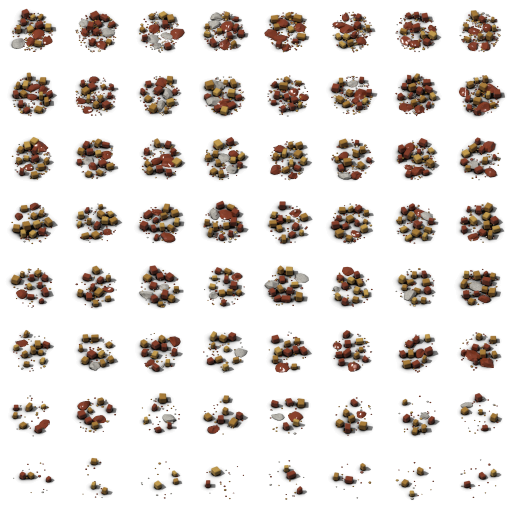
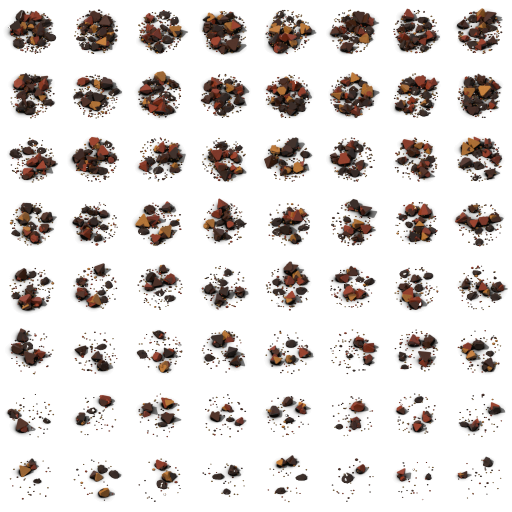
DESIGN-BLENDE : blende refaite (S8, druses de tétraèdres tronqués)
Retour du DC du 30/10 : « je n'aime pas du tout la forme de ces minerais : Blende, ... Il faut les refaire ».
S2 (petits cubes et galets lisses, doublon de forme de la galène) remplacée par S8 : druses de tétraèdres
tronqués (forme cristalline de la sphalérite), une famille de teinte brun-rouge résineux, rubis, ambre rouge.

- gisement.py : primitive tetra() (tétraèdre tronqué, enfoui, faces orientées) et druses `tetras`, aussi dans
  l'icône ; seulement si une direction les déclare (les autres minerais sont inchangés).
- directions.py : S3 à S8 ajoutées en fin de fichier (essais notés), aucune ligne existante modifiée.
- world.lua : commentaire de la feuille, teinte de visualisation de minage brun-rouge.
- graphics/ressources/blende : feuille S8 à 128 échantillons, icônes refaites seules.

Preuves : check_gisement --mutants 7 OK 0 ECHEC, 10/10 refusés ; harness code 0 ; zinc 36, run 114,
x3 6002, monde 356 OK ; r4-visuels avec images 3 OK (place 1). Planches et page :
fo-logs/2026-10-30_RETOUR-MATIN/MINERAIS/blende/index.html. Choix provisoire, sans verdict du DC.

diff --git a/tools/render/pieces/ressources/directions.py b/tools/render/pieces/ressources/directions.py
@@ -581,3 +581,119 @@ GRAINE = {"A": 5101, "B": 5202, "C": 5303, "A2": 5101, "A3": 5101, "A4": 5101, "
 COLONNES = 8
 STADES = 8
 PAS = 3          # écart entre deux cellules, en tuiles (aucune ombre d'une cellule ne déborde sur sa voisine)
+
+# ------------------------------------------------------------------------------------------------
+# BLENDE, REFAITE (lot DESIGN-BLENDE, 30/10, retour du DC du matin : « je n'aime pas du tout la forme de ces minerais :
+# Blende, ... Il faut les refaire »). S2 (livrée) : petits CUBES biseautés (la recette de la galène G1, réutilisée) et
+# galets rouges lisses : se lisait « dés et bonbons », doublon de forme de la galène, confettis au zoom 1, sans gros
+# morceau dominant. Trois formes nouvelles, même teinte (miel, ambre, rubis) plus le noir résineux de la blende réelle
+# (« black jack ») qui donne la profondeur que S2 n'avait pas :
+#   S3 : MORCEAUX CLIVÉS (la blende massive se casse en faces planes brillantes, clivage parfait) : des blocs de la
+#        taille des cailloux vanilla, à grandes facettes nettes, sur un tapis de poussière miel ;
+#   S4 : DRUSES DE TÉTRAÈDRES tronqués (la forme cristalline de la sphalérite), pointes dressées, sur une matrice sombre ;
+#   S5 : MIXTE : morceaux clivés sombres (noir résineux, rubis) d'où sortent des tétraèdres miel et ambre.
+# ------------------------------------------------------------------------------------------------
+MAT.update({
+    # blende noire (« black jack », riche en fer) : brun-noir résineux, reflets francs
+    "blende_noire": dict(color=(0.040, 0.018, 0.009), rough=0.14, met=0.08, grain=0.15, gscale=45.0, dirt=0.3),
+    # poussière de blende : tapis de grains fins miel-brun (plus clair que la terre pour se lire)
+    "poussiere_miel": dict(color=(0.30, 0.17, 0.05), rough=0.9, met=0.0, grain=0.3, gscale=30.0, dirt=0.2),
+})
+_S_BASE = dict(
+    touffes=(0, 0, 0, 0, 0, 0, 0, 0), lames=(0, 0),
+    lame_long=(0.0, 0.0), lame_larg=(0.0, 0.0), lame_ep=(0.0, 0.0), lame_incl=(0, 0), lame_mats=("blende_miel",),
+    blocs=(0, 0, 0, 0, 0, 0, 0, 0), bloc_taille=(0.1, 0.1), bloc_haut=(0.1, 0.1), bloc_mats=("blende_miel",),
+    grains=(16, 14, 12, 10, 8, 6, 4, 3), grain_mats=("blende_miel", "blende_noire", "blende_rubis", "blende_ambre"),
+    fins=(110, 96, 82, 70, 58, 46, 30, 16),
+    fin_mats=("poussiere_miel", "poussiere_miel", "blende_noire", "blende_rubis", "blende_miel"),
+    rayon=0.60,
+    effet="eclats",
+)
+DIRECTIONS["S3"] = dict(_S_BASE, nom="morceaux clivés de blende miel, rubis et noire",
+                        roches=(9, 8, 7, 6, 5, 4, 3, 2), roche_taille=(0.24, 0.34),
+                        roche_mats=("blende_noire", "blende_miel", "blende_rubis", "blende_miel", "blende_ambre",
+                                    "blende_noire"))
+DIRECTIONS["S4"] = dict(_S_BASE, nom="druses de tétraèdres de blende sur matrice sombre",
+                        roches=(3, 3, 2, 2, 2, 1, 1, 1), roche_taille=(0.14, 0.22),
+                        roche_mats=("blende_noire", "blende_noire", "blende_rubis"),
+                        tetras=(7, 6, 5, 4, 4, 3, 2, 1), tetra_n=(2, 4), tetra_taille=(0.20, 0.30),
+                        tetra_mats=("blende_miel", "blende_ambre", "blende_rubis", "blende_noire", "blende_miel"))
+DIRECTIONS["S5"] = dict(_S_BASE, nom="morceaux clivés noirs et rubis hérissés de tétraèdres miel",
+                        roches=(6, 5, 5, 4, 3, 3, 2, 1), roche_taille=(0.24, 0.32),
+                        roche_mats=("blende_noire", "blende_rubis", "blende_noire", "blende_miel"),
+                        tetras=(4, 4, 3, 3, 2, 2, 1, 1), tetra_n=(1, 3), tetra_taille=(0.18, 0.26),
+                        tetra_mats=("blende_miel", "blende_ambre", "blende_miel", "blende_rubis"))
+for _k in ("S3", "S4", "S5"):
+    CALIB[_k] = {"SKY_GLOSSY_FACTOR": 2.0}
+    ROCHE_COUPES[_k] = 9            # clivage : beaucoup de plans de cassure, faces planes
+    ROCHE_LISSE[_k] = 10            # arêtes vives (lissé 10° seulement)
+    ROCHE_APLAT[_k] = 0.62
+    ROCHE_CASSURE[_k] = (0.30, 0.62)
+    EFFET[_k] = dict(EFFET["S2"])
+    ECHELLE[_k] = 1.0
+    GRAINE[_k] = 6818
+
+# Ronde 2 (DESIGN-BLENDE, 30/10, 9 h 25 ; planche variantes/planche-variantes.png à 16 échantillons) : S3 sort en FLOCONS
+# couchés (les coupes profondes aplatissent les morceaux) : écartée. S4 (tétraèdres) a la meilleure silhouette, mais son
+# miel sort KAKI et mat (même teinte que la terre dirt-4 : invisible sur le sol de la garantie), ses galets rubis de
+# matrice restent des pastilles plates, et sa couverture est à 0,24 au stade 1 (vanilla 0,316). S6 : druses de S4 en noir
+# résineux majoritaire (contraste sur la terre et l'herbe), ambre et rubis VIFS et brillants (l'éclat résineux), matrice
+# noire TRAPUE (aplat 0,85, cassures moins profondes), tapis de poussière dense comme la vanilla ; comptes recalés au
+# rapport vanilla / mesuré de S4 (× 1,3 ; stades 4 et 5 corrigés à part). S7 : la même forme, ambre majoritaire.
+MAT.update({
+    "blende_ambre_vif": dict(color=(0.80, 0.42, 0.05), rough=0.12, met=0.05, grain=0.15, gscale=45.0, dirt=0.3),
+    "blende_rubis_vif": dict(color=(0.42, 0.040, 0.015), rough=0.12, met=0.05, grain=0.15, gscale=45.0, dirt=0.3),
+})
+DIRECTIONS["S6"] = dict(DIRECTIONS["S4"], nom="druses de tétraèdres de blende noire résineuse, ambre et rubis",
+                        roches=(3, 3, 2, 2, 2, 1, 1, 1), roche_taille=(0.13, 0.20), roche_mats=("blende_noire",),
+                        tetras=(7, 6, 5, 4.5, 3.4, 3, 2, 1), tetra_n=(2, 4), tetra_taille=(0.20, 0.30),
+                        tetra_mats=("blende_noire", "blende_noire", "blende_rubis_vif", "blende_ambre_vif",
+                                    "blende_noire", "blende_ambre_vif", "blende_rubis_vif"),
+                        grain_mats=("blende_ambre_vif", "blende_noire", "blende_rubis_vif", "blende_noire"),
+                        fins=(180, 155, 130, 110, 90, 70, 45, 25),
+                        fin_mats=("poussiere_miel", "blende_noire", "poussiere_miel", "blende_rubis_vif", "blende_noire"))
+DIRECTIONS["S7"] = dict(DIRECTIONS["S6"], nom="druses de tétraèdres de blende ambre, rubis et noire",
+                        tetra_mats=("blende_ambre_vif", "blende_ambre_vif", "blende_rubis_vif", "blende_noire",
+                                    "blende_ambre_vif"))
+for _k in ("S6", "S7"):
+    CALIB[_k] = {"SKY_GLOSSY_FACTOR": 3.0}
+    ROCHE_COUPES[_k] = 6
+    ROCHE_LISSE[_k] = 25
+    ROCHE_APLAT[_k] = 0.85
+    ROCHE_CASSURE[_k] = (0.50, 0.80)
+    EFFET[_k] = dict(EFFET["S2"])
+    ECHELLE[_k] = 1.3
+    GRAINE[_k] = 6818
+ICONE["S6"] = dict(lames=(0, 0), roches=(1, 2), roche_taille=(0.16, 0.22), roche_coupes=6, roche_cassure=(0.5, 0.8),
+                   roche_aplat=0.85, roche_mats=("blende_noire",),
+                   tetras=4, tetra_taille=(0.40, 0.50), tetra_mats=("blende_ambre_vif", "blende_noire", "blende_rubis_vif",
+                                                                   "blende_ambre_vif"))
+ICONE["S7"] = dict(ICONE["S6"])
+
+# Ronde 3 (9 h 35, planche variantes/planche-S6-S7.png) : S6 et S7 ont la bonne silhouette mais se lisent en CONFETTIS
+# tricolores (pièces noires, rouges et jaune moutarde séparées : un minerai vanilla est UNE matière qui varie en valeur),
+# le jaune sort moutarde mat, et les faces plates sans reflet franc font « low poly » à côté du cuivre. S8 : une seule
+# famille de teinte, brun-rouge résineux sombre → rubis → ambre rouge (le « miel à rubis » d'X3 sans la moutarde), matière
+# plus lisse et reflets du ciel plus forts (éclat résineux net sur les facettes), tailles et troncatures plus variées.
+MAT.update({
+    "blende_brune": dict(color=(0.085, 0.026, 0.010), rough=0.09, met=0.05, grain=0.22, gscale=45.0, dirt=0.3),
+    "blende_rubis_r": dict(color=(0.34, 0.050, 0.016), rough=0.08, met=0.05, grain=0.22, gscale=45.0, dirt=0.3),
+    "blende_ambre_r": dict(color=(0.58, 0.22, 0.035), rough=0.08, met=0.05, grain=0.22, gscale=45.0, dirt=0.3),
+})
+DIRECTIONS["S8"] = dict(DIRECTIONS["S6"], nom="druses de tétraèdres de blende résineuse brun-rouge, rubis et ambre",
+                        roche_mats=("blende_noire",),
+                        tetras=(7.8, 6, 5, 4.5, 3.1, 2.85, 1.8, 1), tetra_taille=(0.17, 0.32), tetra_tronc=(0.10, 0.34),
+                        tetra_mats=("blende_brune", "blende_brune", "blende_rubis_r", "blende_noire", "blende_rubis_r",
+                                    "blende_brune", "blende_ambre_r"),
+                        grain_mats=("blende_rubis_r", "blende_noire", "blende_ambre_r", "blende_brune"),
+                        fin_mats=("poussiere_miel", "blende_brune", "poussiere_miel", "blende_rubis_r", "blende_noire"))
+CALIB["S8"] = {"SKY_GLOSSY_FACTOR": 5.0}
+ROCHE_COUPES["S8"], ROCHE_LISSE["S8"] = ROCHE_COUPES["S6"], ROCHE_LISSE["S6"]
+ROCHE_APLAT["S8"], ROCHE_CASSURE["S8"] = ROCHE_APLAT["S6"], ROCHE_CASSURE["S6"]
+EFFET["S8"] = dict(EFFET["S2"])
+ECHELLE["S8"] = 1.3
+GRAINE["S8"] = 6818
+ICONE["S8"] = dict(ICONE["S6"], tetra_mats=("blende_rubis_r", "blende_brune", "blende_ambre_r", "blende_rubis_r"))
+# Icône de S8 (après la production à 128 échantillons, icones.png) : un seul grand tétraèdre au centre se lisait « toit de
+# tente ». Comme les icônes vanilla (3 ou 4 morceaux qui remplissent le cadre) : 5 tétraèdres moyens et un éclat noir.
+ICONE["S8"] = dict(ICONE["S8"], roches=(1, 1), tetras=5, tetra_taille=(0.27, 0.34), tetra_tronc=(0.12, 0.28))

diff --git a/tools/render/pieces/ressources/gisement.py b/tools/render/pieces/ressources/gisement.py
@@ -130,6 +130,52 @@ def bloc(rng, taille, haut):
     return verts, faces
 
 
+def tetra(rng, taille, tronc=(0.18, 0.30), enfoui=(0.15, 0.40)):
+    """Tétraèdre TRONQUÉ (lot DESIGN-BLENDE, 30/10) : la forme cristalline de la sphalérite (blende), 4 grandes faces
+    triangulaires coupées aux pointes (4 hexagones + 4 petits triangles). Orientation au hasard, enfoui dans le sol
+    d'une part `enfoui` de sa hauteur (fond aplati à z = 0) : une pointe ou une arête dressée, jamais un dé posé."""
+    T = ((1.0, 1.0, 1.0), (1.0, -1.0, -1.0), (-1.0, 1.0, -1.0), (-1.0, -1.0, 1.0))
+    t = rng.uniform(*tronc)
+    verts, idx = [], {}
+    for i in range(4):
+        for j in range(4):
+            if i != j:
+                idx[(i, j)] = len(verts)
+                verts.append(tuple(T[i][k] + t * (T[j][k] - T[i][k]) for k in range(3)))
+    faces = []
+    for i in range(4):                       # petits triangles des pointes coupées
+        autres = [j for j in range(4) if j != i]
+        faces.append([idx[(i, j)] for j in autres])
+    for f in range(4):                       # grandes faces (hexagones) : face opposée au sommet f
+        a, b, c = [j for j in range(4) if j != f]
+        faces.append([idx[(a, b)], idx[(b, a)], idx[(b, c)], idx[(c, b)], idx[(c, a)], idx[(a, c)]])
+    # rotation au hasard (trois angles), échelle (rayon du tétraèdre ≈ √3 → taille), puis à plat dans le sol
+    ax, ay, az = rng.uniform(0, 2 * math.pi), rng.uniform(0, 2 * math.pi), rng.uniform(0, 2 * math.pi)
+    k = taille / math.sqrt(3.0)
+    out = []
+    for x, y, z in verts:
+        y, z = y * math.cos(ax) - z * math.sin(ax), y * math.sin(ax) + z * math.cos(ax)
+        x, z = x * math.cos(ay) + z * math.sin(ay), -x * math.sin(ay) + z * math.cos(ay)
+        x, y = x * math.cos(az) - y * math.sin(az), x * math.sin(az) + y * math.cos(az)
+        out.append((x * k, y * k, z * k * rng.uniform(0.97, 1.03)))
+    # orientation des faces vers l'extérieur, sur le solide convexe entier (centre à l'origine), AVANT l'aplatissement
+    cx = cy = cz = 0.0
+    ok = []
+    for f in faces:
+        p0, p1, p2 = out[f[0]], out[f[1]], out[f[2]]
+        u = [p1[q] - p0[q] for q in range(3)]
+        w = [p2[q] - p0[q] for q in range(3)]
+        n = (u[1] * w[2] - u[2] * w[1], u[2] * w[0] - u[0] * w[2], u[0] * w[1] - u[1] * w[0])
+        m = [sum(out[q][r] for q in f) / len(f) for r in range(3)]
+        dot = n[0] * (m[0] - cx) + n[1] * (m[1] - cy) + n[2] * (m[2] - cz)
+        ok.append(f if dot >= 0 else list(reversed(f)))
+    z0 = min(v[2] for v in out)
+    h = max(v[2] for v in out) - z0
+    zb = z0 + rng.uniform(*enfoui) * h
+    out = [(x, y, max(0.0, z - zb)) for x, y, z in out]
+    return out, ok
+
+
 # ------------------------------------------------------------------------------------------------
 # Placement
 # ------------------------------------------------------------------------------------------------
@@ -205,6 +251,19 @@ def cellule(S, C, mats, lave, d, cle, r, c, stade, rng, icone=False):
             o = _objet("%s_lame%d_%d" % (tag, i, j), vv, f, mats[rng.choice(d["lame_mats"])], S)
             S.bevel(o, 0.006, 1)
             objs.append(o)
+    # druses de tétraèdres tronqués (blende, lot DESIGN-BLENDE) : seulement si la direction en déclare
+    if d.get("tetras"):
+        n_dr = _compte(d["tetras"], stade, e, rng)
+        for i, (gx, gy) in enumerate(_places(rng, n_dr, rayon * 0.92, 0.26, occupe)):
+            occupe.append((gx, gy))
+            n_t = rng.randint(*d["tetra_n"])
+            for j in range(n_t):
+                t = rng.uniform(*d["tetra_taille"]) * (1.0 if j == 0 else rng.uniform(0.55, 0.85))
+                v, f = tetra(rng, t, tronc=d.get("tetra_tronc", (0.18, 0.30)))
+                a = rng.uniform(0, 2 * math.pi)
+                rr = 0.0 if j == 0 else rng.uniform(0.07, 0.13)
+                pose(v, f, mats[rng.choice(d["tetra_mats"])], gx + rr * math.cos(a), gy + rr * math.sin(a),
+                     "%s_tetra%d_%d" % (tag, i, j), biseau=d.get("tetra_biseau", 0.008))
     # filons de lave (C) : bandes basses émissives au sol, entre les roches
     if lave is not None and d.get("filons"):
         n_f = _compte(d["filons"], stade, 1.0, rng) + (1 if icone else 0)
@@ -283,6 +342,18 @@ def cellule_icone(S, C, mats, d, cle, c, rng):
         vv = _transforme(v, 0.0, rng.uniform(0, 2 * math.pi), bx, by, 0.0)
         o = _objet("%s_bloc%d" % (tag, j), vv, f, mats[rng.choice(ic["bloc_mats"])], S)
         S.bevel(o, 0.02, 1)
+        objs.append(o)
+    # tétraèdres tronqués (blende, lot DESIGN-BLENDE) : seulement si ICONE en demande
+    for j in range(ic.get("tetras", 0)):
+        a = rng.uniform(0, 2 * math.pi)
+        rr = 0.0 if j == 0 else rng.uniform(0.14, 0.24)
+        gx, gy = rr * math.cos(a), 0.8 * rr * math.sin(a)
+        t = rng.uniform(*ic["tetra_taille"]) * (1.0 if j == 0 else rng.uniform(0.6, 0.85))
+        v, f = tetra(rng, t, tronc=ic.get("tetra_tronc", (0.18, 0.30)))
+        bx, by, _ = C.tile_to_blender(cx + gx, cy + gy)
+        vv = _transforme(v, 0.0, rng.uniform(0, 2 * math.pi), bx, by, 0.0)
+        o = _objet("%s_tetra%d" % (tag, j), vv, f, mats[rng.choice(ic["tetra_mats"])], S)
+        S.bevel(o, 0.012, 1)
         objs.append(o)
     return objs
 
